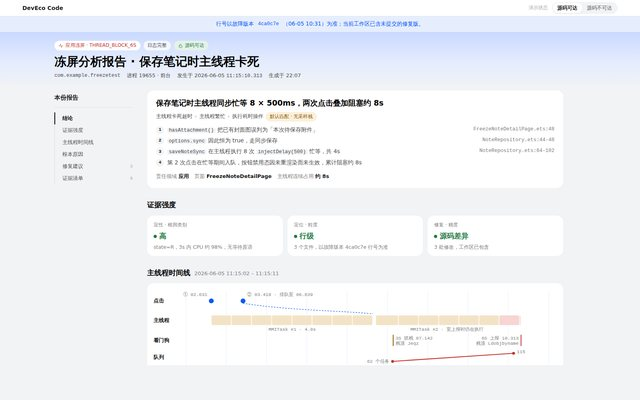
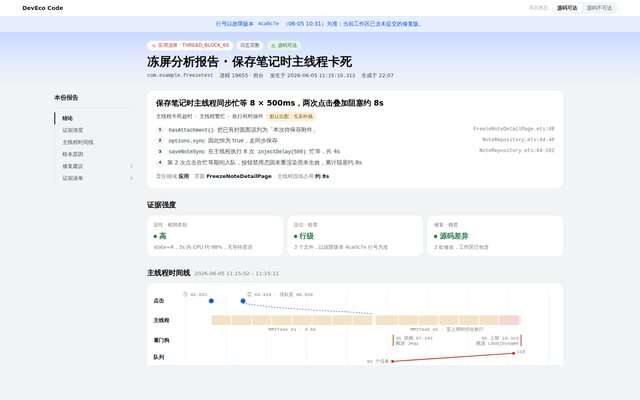
demo 28 头图与正文列左对齐
头图内容区左侧让出侧栏宽度（56 + 196 + 36px），标题、状态胶囊和元信息与
下方正文卡片同一条左边线，最宽同为 1040px；窄屏保持 16px 边距。

Changed region(s): [[0.0625, 0.09, 0.625, 0.21]]

diff --git a/demos/28-appfreeze-report/index.html b/demos/28-appfreeze-report/index.html
@@ -71,7 +71,7 @@ h1{font-size:30px;font-weight:700;line-height:1.3;color:var(--ink)}
 .tree a.on{border-left-color:var(--ink);color:var(--ink);font-weight:700}
 .tree a .n{margin-left:auto;font-size:11.5px;color:var(--ink4);font-family:var(--mono);font-weight:400}
 .main{flex:1;min-width:0}
-@media (min-width:901px){.wrap{padding-right:104px}}
+@media (min-width:901px){.wrap{padding-right:104px}.hero-in{padding-left:calc(56px + 196px + 36px);padding-right:104px}.hero-in .l{max-width:1040px}}
 
 
 /* ===== 两栏正文 ===== */
